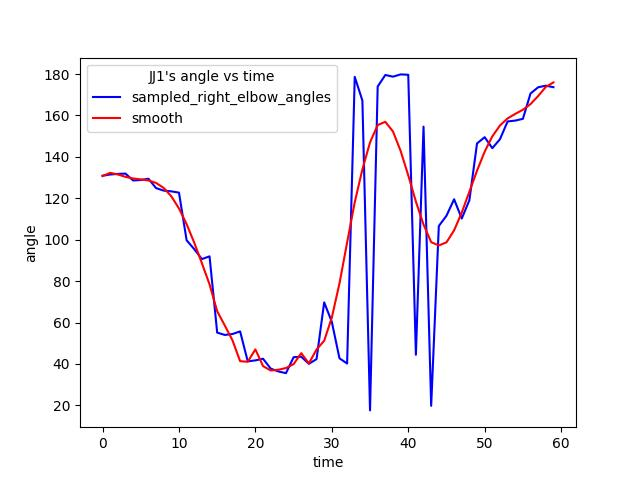
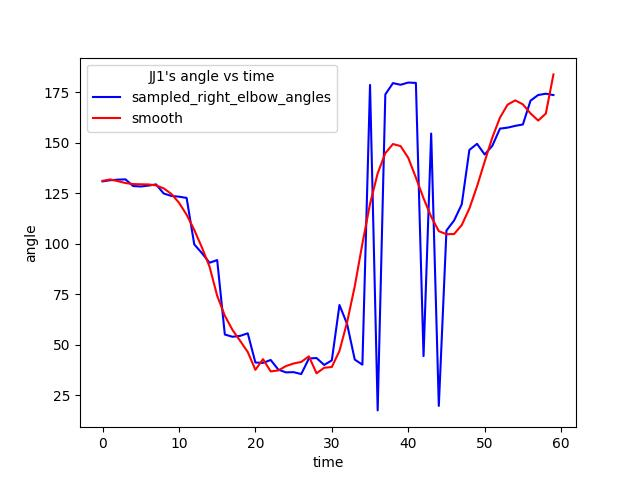
y angles including all videos and angle types

diff --git a/margin.py b/margin.py
@@ -15,7 +15,7 @@ import seaborn as sns
 import os
 
 # filename = "./videos/JJ1.mp4"
-filenames = ["JJ1.mp4", "StephCurry.mp4"]
+# filenames = ["JJ1.mp4", "StephCurry.mp4"]
 path = './videos'
 filenames = os.listdir(path)
 
@@ -42,6 +42,20 @@ right_knee_angles = []
 ## setup mediapipe instance
 images = []
 y_values =[]
+sampled_metrics = {
+    'sampled_right_elbow_angles': [],
+    'sampled_right_shoulder_angles': [],
+    'sampled_right_wrist_angles': [],
+    'sampled_right_hip_angles': [],
+    'sampled_right_knee_angles': [],
+}
+metrics_y_values = {
+    'sampled_right_elbow_angles_y': [],
+    'sampled_right_shoulder_angles_y': [],
+    'sampled_right_wrist_angles_y': [],
+    'sampled_right_hip_angles_y': [],
+    'sampled_right_knee_angles_y': [],
+}
 for filename in filenames:
     # filename is the name of each file. Should append folder name
     filename = './videos/'+filename
@@ -190,38 +204,25 @@ for filename in filenames:
         'right_hip_angles': right_hip_angles,
         'right_knee_angles': right_knee_angles,
     }
-    sampled_metrics = {
-        'sampled_right_elbow_angles': [],
-        'sampled_right_shoulder_angles': [],
-        'sampled_right_wrist_angles': [],
-        'sampled_right_hip_angles': [],
-        'sampled_right_knee_angles': [],
-    }
-    metrics_y_values = {
-        'sampled_right_elbow_angles_y': [],
-        'sampled_right_shoulder_angles_y': [],
-        'sampled_right_wrist_angles_y': [],
-        'sampled_right_hip_angles_y': [],
-        'sampled_right_knee_angles_y': [],
-    }
+    
     sampled_left_elbow_angles = []
     for metric in tracked_metrics:
-        y_values = []
+        # y_values = []
         for i, angle in enumerate(tracked_metrics[metric]):
             if i not in samples:
                 # print(i)
                 sampled_metrics['sampled_' + metric].append(angle)
         sampled_times = np.arange(60) # mostly 30 fps and most given videos are of 2secs
         # print(sampled_left_elbow_angles)
-        sampled_metrics['sampled_' + metric] = np.array(sampled_metrics['sampled_' + metric])
+        # sampled_metrics['sampled_' + metric] = np.array(sampled_metrics['sampled_' + metric])
         print(f'After sampling: {len(sampled_times)}')
-        plt.plot(sampled_times, sampled_metrics['sampled_' + metric], color='b', label = 'sampled_' + metric)
+        plt.plot(sampled_times, sampled_metrics['sampled_' + metric][-60:], color='b', label = 'sampled_' + metric)
         plt.savefig(f"./output-images/{filename[9:-4]}'s sampled-unsmooth-angle-vs-time.jpg")
     ###### sampling #####
     
     ##### smooth a curve #####
     # cubic_interpolation_model = interp1d(times, left_elbow_angles, kind = "cubic")
-        cubic_interpolation_model = interp1d(sampled_times, sampled_metrics['sampled_' + metric])
+        cubic_interpolation_model = interp1d(sampled_times, sampled_metrics['sampled_' + metric][-60:])
 
         # times = np.array(times)
         sampled_times = np.array(sampled_times)
@@ -231,7 +232,7 @@ for filename in filenames:
     
     # apply smoothing filter   
     # Y_ = savgol_filter(Y_, len(times), 50)
-        Y_ = sampled_metrics['sampled_' + metric]
+        Y_ = sampled_metrics['sampled_' + metric][-60:]
         Y_ = savgol_filter(Y_, window_length=30, polyorder=7)
     
     # for margin graph
@@ -274,7 +275,7 @@ for filename in filenames:
 for metric in metrics_y_values:
     sns.set()
     y_values = np.negative(metrics_y_values[metric])
-    print(f'y_values length: {len(y_values)}')
+    print(f'y_values shape: {y_values.shape}')
     y_values = np.array(y_values).reshape(len(filenames), -1)
     y_means = np.mean(y_values, axis=0)
     y_std = np.std(y_values, axis=0)
